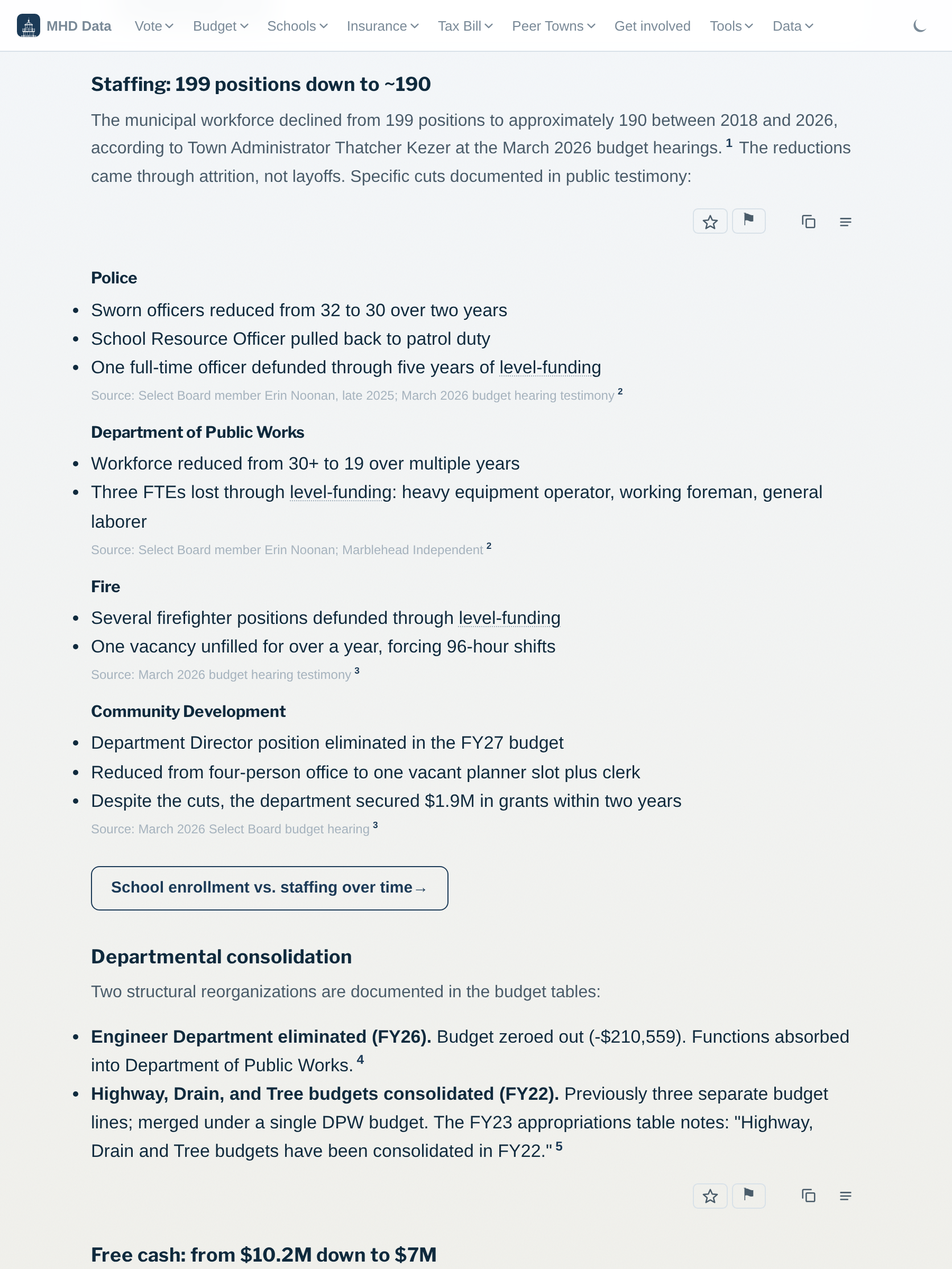
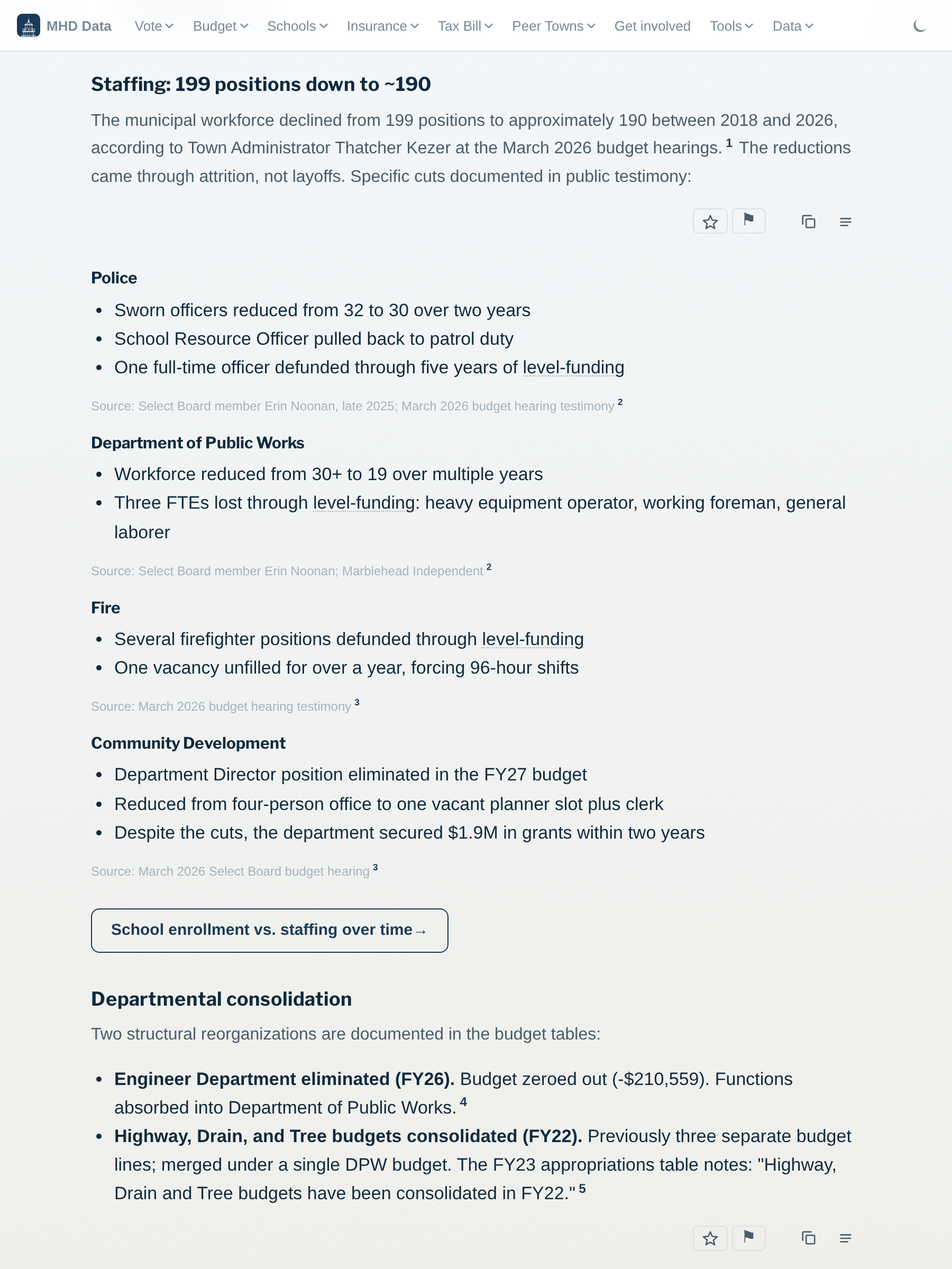
Extend the bare-list safety net from .container to .page
PR #719 restored padding-left on bare <ul>/<ol> inside chart .container
boxes. The same problem exists on long-form reading pages: the global
* { padding: 0 } reset zeroes the default ul indent, so bullet markers
render in the .page gutter, left of where headings and prose start.

Adds .page > ul/ol (and .page > details > ul/ol) to the same rule, with
margin-bottom for breathing room before the next heading. Direct-child
selectors only — keeps .card > ul and other component-scoped list rules
untouched.

Changed region(s): [[0.0933, 0.2188, 0.9022, 1.0]]

diff --git a/assets/site.css b/assets/site.css
@@ -782,20 +782,28 @@ ul.tldr li:last-child { margin-bottom: 0; }
 ul.tldr li strong { color: var(--text); }
 
 /* Safety net: the global `* { padding: 0 }` reset zeroes default <ul>/<ol>
-   padding, so a bare <ul> inside a chart .container renders bullets in the
-   container's left padding (or outside it). Restore an indent for any
-   un-classed list inside .container so bullets stay inside the surface.
-   Bespoke list classes (.tldr, .tier-list, .question-list, etc.) override
-   this with their own padding rules. */
+   padding, so a bare <ul> renders its bullet markers outside the content
+   box — in the surrounding gutter, left of where the headings and prose
+   start. Restore a working indent for any un-classed list inside .container
+   (chart pages) or .page (long-form reading pages) so markers sit inside
+   the text column. Bespoke list classes (.tldr, .tier-list, .question-list,
+   etc.) carry their own padding and are excluded by :not([class]). */
 .container > ul:not([class]),
 .container > ol:not([class]),
 .container > details > ul:not([class]),
-.container > details > ol:not([class]) {
+.container > details > ol:not([class]),
+.page > ul:not([class]),
+.page > ol:not([class]),
+.page > details > ul:not([class]),
+.page > details > ol:not([class]) {
   padding-left: 22px;
   list-style: disc;
+  margin-bottom: 14px;
 }
 .container > ol:not([class]),
-.container > details > ol:not([class]) { list-style: decimal; }
+.container > details > ol:not([class]),
+.page > ol:not([class]),
+.page > details > ol:not([class]) { list-style: decimal; }
 
 p {
   font-size: 1.0rem; color: var(--text-muted);
